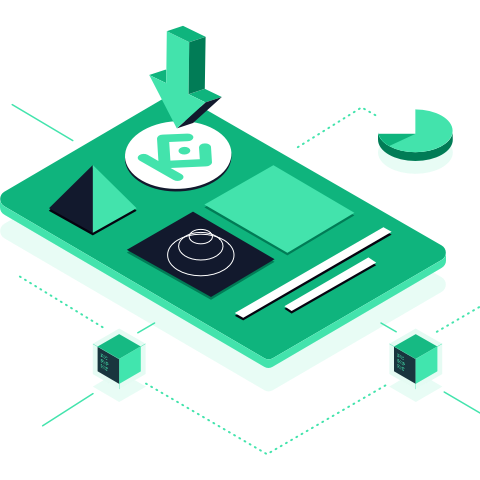
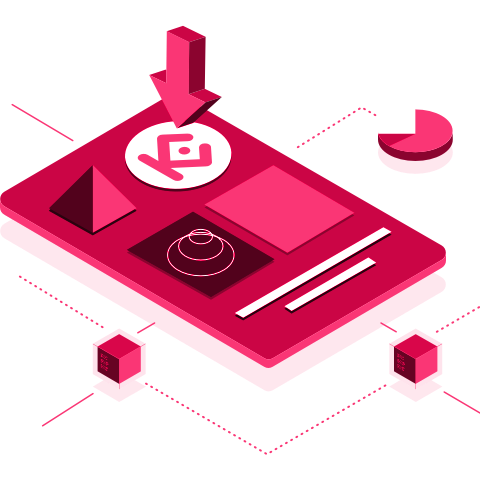
add callchain theme pictures

diff --git a/src/views/Home.vue b/src/views/Home.vue
@@ -283,7 +283,7 @@ export default {
           transform: translateX(-50%);
           width: 32px;
           height: 32px;
-          background: url("../assets/img/call.png") no-repeat center center;
+          background: url("../assets/img/jb.png") no-repeat center center;
           background-size: 100%;
         }
       }
